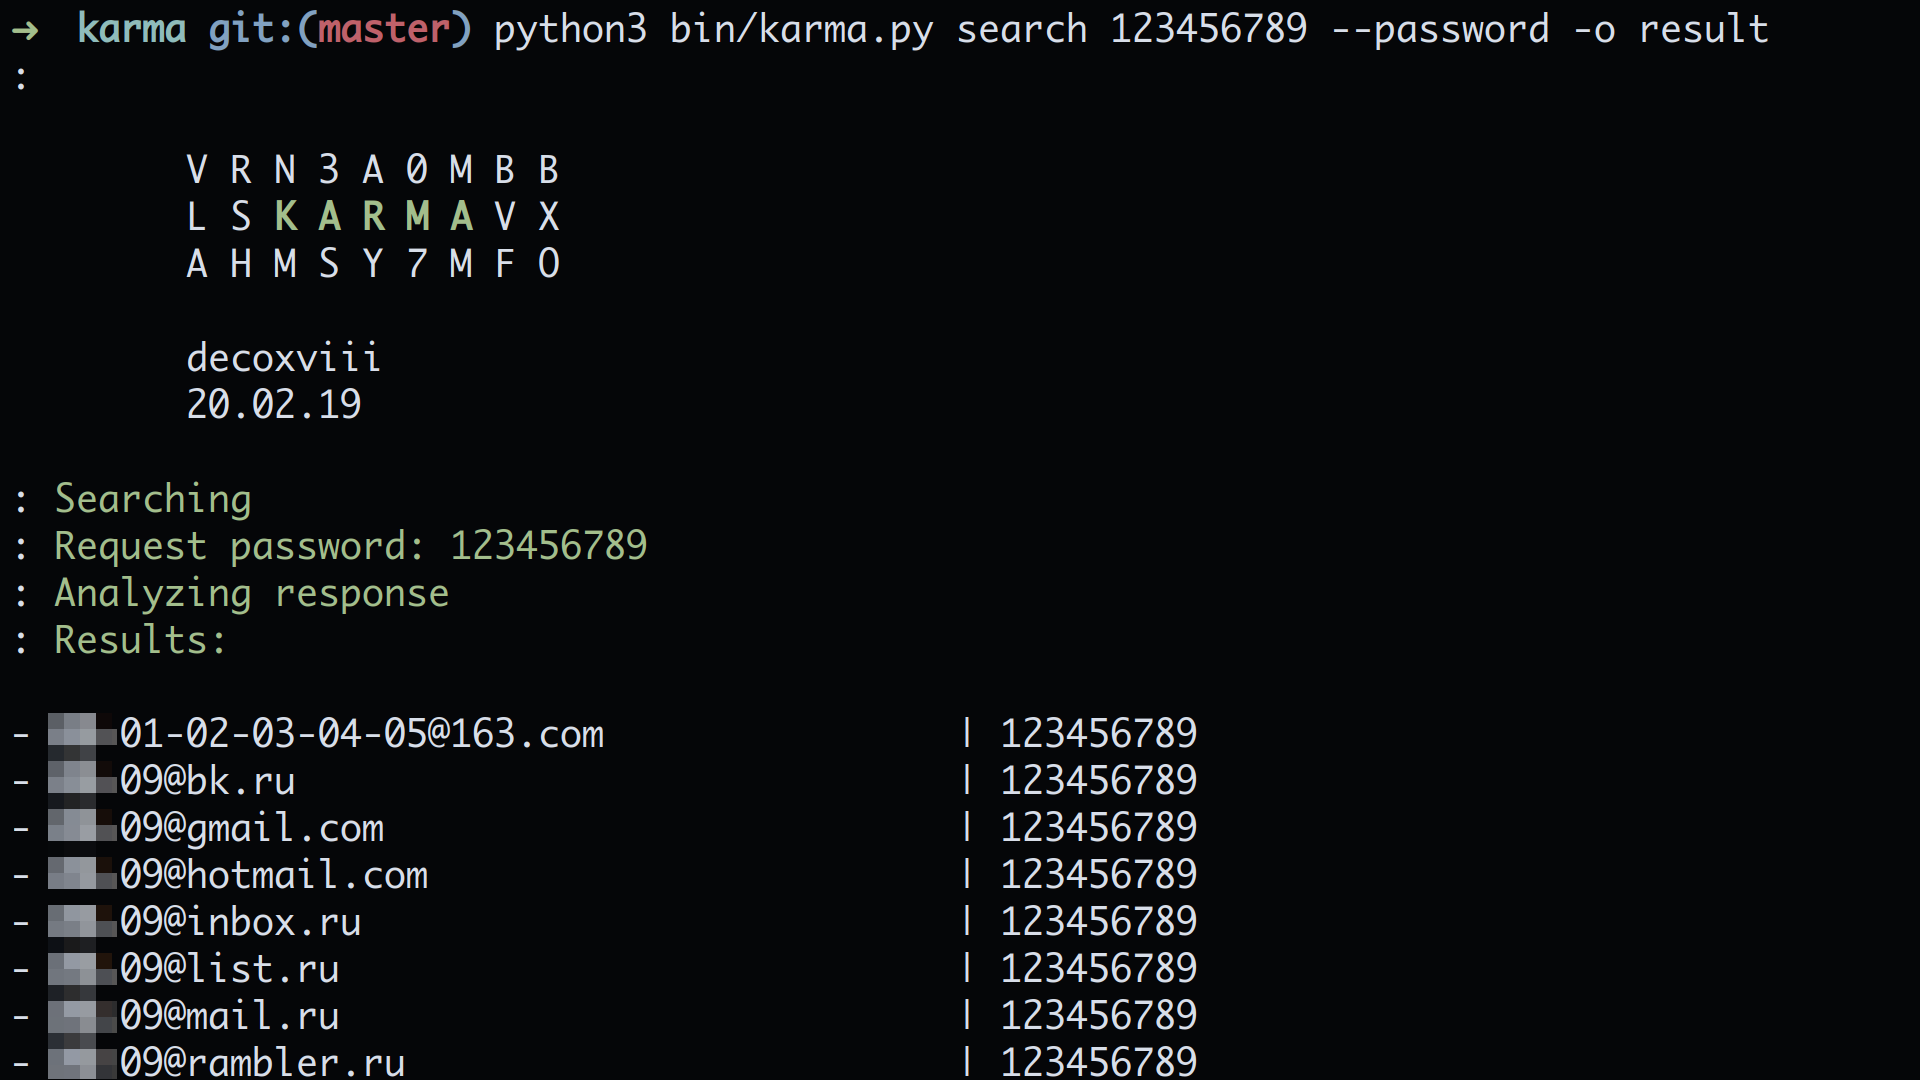
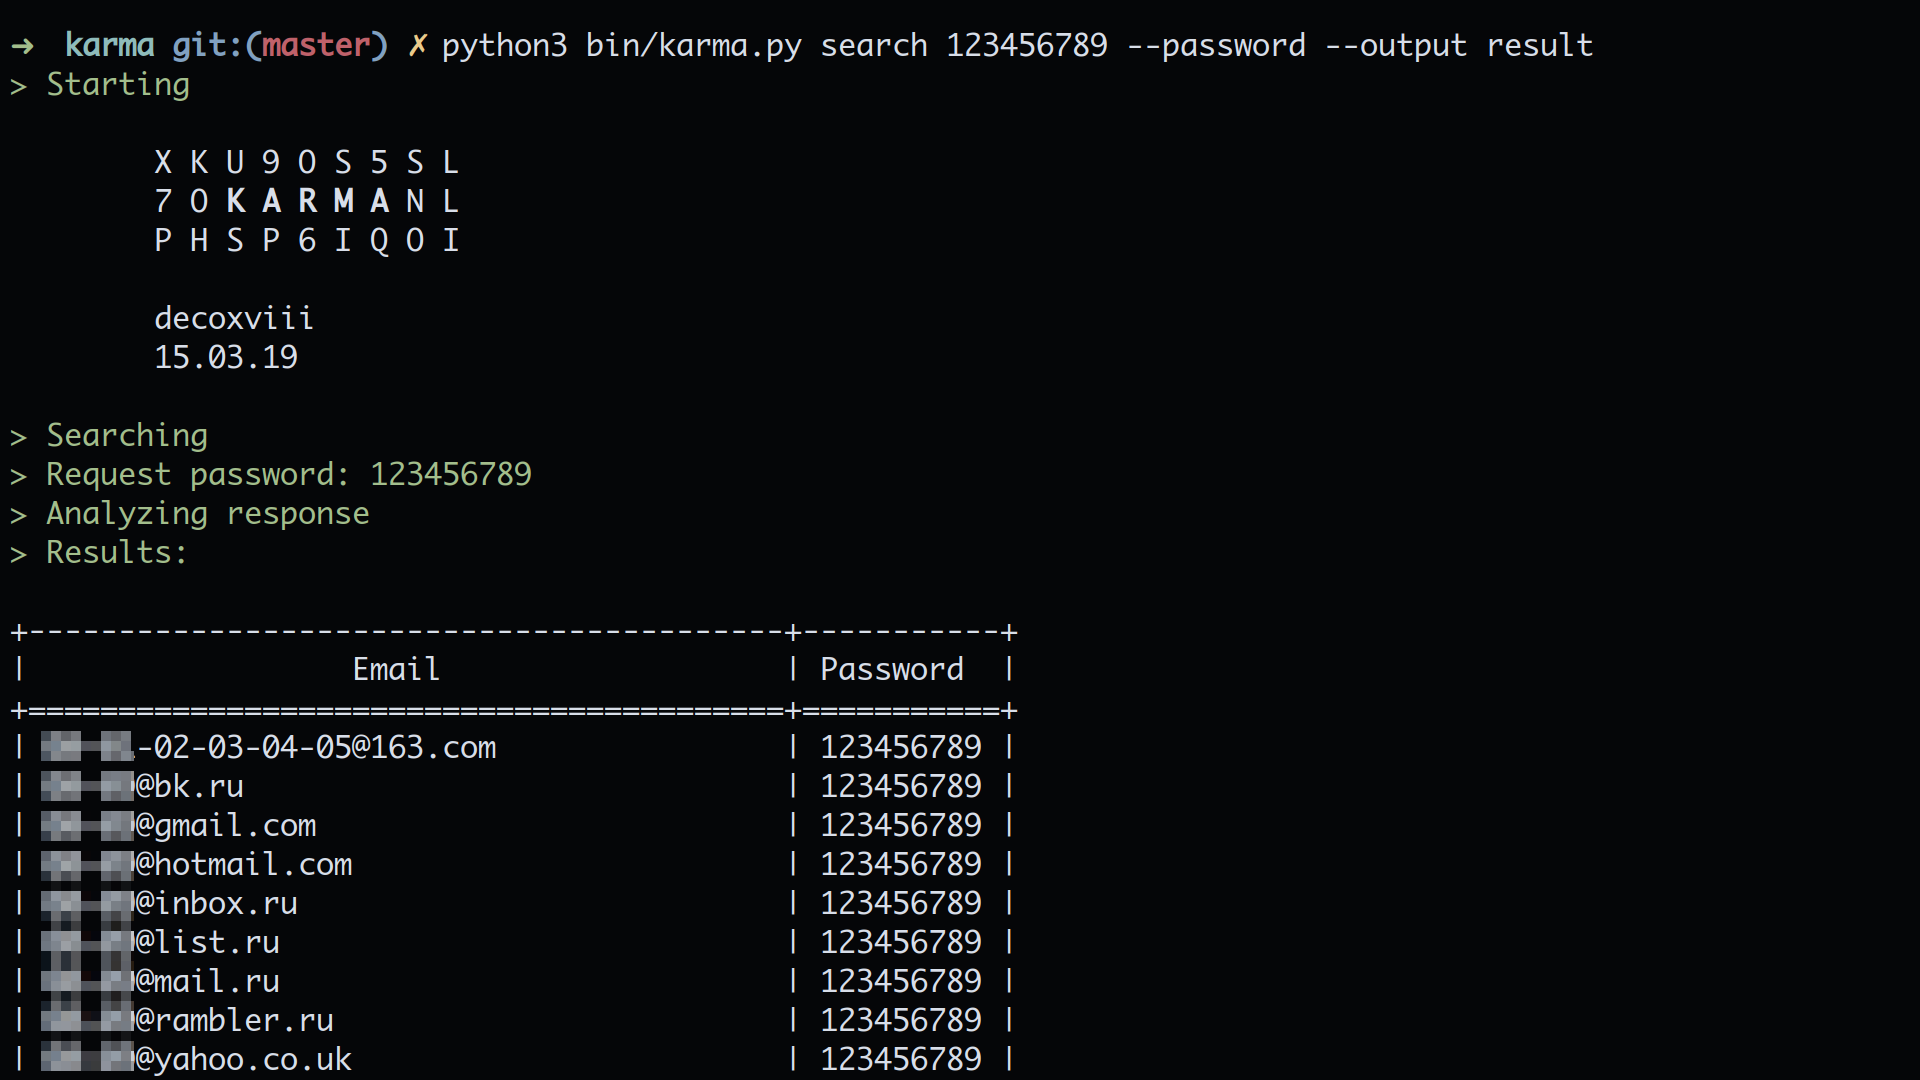
version: 15.03.19

diff --git a/bin/karma.py b/bin/karma.py
@@ -1,7 +1,10 @@
 #!/usr/bin/env python3
 
+# colors
+RESET, GREEN, RED = '\033[0m', '\033[92m', '\033[91m'
+
 project = 'Karma'
-version = '20.02.19'
+version = '15.03.19'
 author  = 'decoxviii'
 
 usage = """Karma
@@ -20,65 +23,79 @@ Options:
 """
 
 from os import path
-
 import json
 import time
 import sys
 
-# Colors
-RESET, GREEN = '\033[0m', '\033[92m'
-
 try:
     sys.path.insert(0, path.abspath(path.join(path.dirname(__file__), '..')))
+    from texttable import Texttable
     from docopt import docopt
     from karma import banner
     from karma import core
-except Exception as e:
-    print("Error:", e )
-    print("Please install the requirements:\n\t$ pip3 install -r requirements.txt")
+except ModuleNotFoundError as error:
+    print("{}> Error:{}".format(RED, error))
+    print(" - Verify the existence of the directory: karma/")
+    print(" - Please install the requirements:\n\t$ sudo -H pip3 install -r requirements.txt")
     sys.exit(1)
 
-def main():
-    start = time.time()
-    args  = docopt(usage, version=version)          # load args
-    pwndb = core.pwndb(args)
-    banner.print_banner(project, version, author)   # print banner
-    
-    print(':{} Searching{}'.format(GREEN, RESET))
-    # get search results
-    result = pwndb.search_info()
+
+def print_result_table(result):
     
     if not result:
-        end = time.time() - start
-        print(':{} Results:{}'.format(GREEN, RESET))
-        print(':{} 0 Results found in {:.2f} segs.{}'.format(
-            GREEN, end, RESET ))
-        sys.exit()
+        print('{}> Not results:{}'.format(RED, RESET))
+        return None
     
-    # print results
-    print(':{} Results:{}\n'.format(GREEN, RESET))
-    length = [result[key]['email'] for key in result.keys()]
-    length = len(max(length, key=len))
-
+    print('{}> Results:{}\n'.format(GREEN, RESET))
+    
+    table = Texttable()                     # create table
+    table.header(['Email', 'Password'])     # add two columns
+    table.set_cols_dtype(['t', 't'])        # data type is text
+    table.set_deco(                         # set table decoration
+        Texttable.BORDER | 
+        Texttable.HEADER |
+        Texttable.VLINES)
+    
     for key in result.keys():
-        print('- {} | {}'.format(
-            result[key]['email'].ljust(length),
-            result[key]['passw']
-        ))
+        email = result[key]['email']        # get email
+        passw = str(result[key]['passw'])   # get password
+        row   = (email, passw)              # create tuple with email and password
+        table.add_row(row)                  # add new row to the table
+
+    print(table.draw())
+
+
+def generate_json_file(result, filename):
     
-    end = time.time() - start
-    print('\n: {}{} Results found in {:.2f} segs.{}'.format(
+    if not filename:
+        filename = time.strftime('%d%m%y-%H%M%S')   # if not filename: create new file name
+    output = json.dumps(result, indent=2)           # get results in json format
+    f = open('%s.json' % filename, 'w')             # create new file
+    f.write(output)                                 # write results
+    f.close()
+
+    print('{}> The file {}.json was created.{}'.format(GREEN, filename, RESET))
+
+
+def main():
+    
+    start = time.time()                             # get program start time
+    args  = docopt(usage, version=version)          # get arguments
+    pwndb = core.pwndb(args)                        # load functions
+    banner.print_banner(project, version, author)   # print sexy banner
+    
+    print('{}> Searching{}'.format(GREEN, RESET))
+
+    result = pwndb.search_info()                    # start search and get results
+    print_result_table(result)                      # print results
+    end = time.time() - start                       # get time within the program
+    
+    print('\n{}> {} Results found in {:.2f} segs.{}'.format(
         GREEN, len(result.keys()), end, RESET ))
 
     if args['--output']:
-        output = json.dumps(result, indent=2)
-        filename = args['FILENAME']
-        filename = filename if filename else '%s' % time.strftime('%d%m%y-%H%M%S')
-        f = open('%s.json' % filename, 'w')
-        f.write(output)
-        f.close()
-        print(':{} The file {}.json was created.{}'.format(GREEN, filename, RESET))
-
+        filename = args['FILENAME']             # get file name 
+        generate_json_file(result, filename)    # generate json file with the results
 
 if __name__ == "__main__":
     main()

diff --git a/karma/core.py b/karma/core.py
@@ -8,6 +8,12 @@ import os
 # Colors
 GREEN, RED, RESET = '\033[92m', '\033[91m', '\033[0m'
 
+try:
+    import requests
+except Exception as e:
+    print('Error:', e)
+    print("Please install the requirements:\n\t$ sudo -H pip3 install -r requirements.txt")
+    sys.exit(1)
 
 class pwndb(object):
 
@@ -40,7 +46,7 @@ class pwndb(object):
         try:
             req = self.session.post(self.domain, data=data)
         except Exception as e:
-            print('{}E:{}{}'.format(RED, e, RESET))
+            print('{}Error: {}{}'.format(RED, e, RESET))
             sys.exit(2)
         
         return req.text
@@ -49,7 +55,7 @@ class pwndb(object):
     def response_parser(self, response):
         """ Parse pwndb response """
 
-        print("\n:{} Analyzing response{}".format(GREEN, RESET))
+        print("\n{}> Analyzing response{}".format(GREEN, RESET))
 
         if not response:
             return ''
@@ -72,14 +78,14 @@ class pwndb(object):
         
         regex = r"(^[a-zA-Z0-9_.+-]+@[a-zA-Z0-9-]+\.[a-zA-Z0-9-.]+$)"
         if re.match(regex, target):
-            print(':{} Request email: {}{}\033[J'.format(GREEN, target, RESET), end='\r')
+            print('{}> Request email: {}{}\033[J'.format(GREEN, target, RESET), end='\r')
 
             self.data['luser']  = target.split('@')[0]
             self.data['domain'] = target.split('@')[1]
 
             return self.get_request(self.data)
         
-        print(':{} Invalid email: {}{}\033[J'.format(RED, target, RESET))
+        print('{}> Invalid email: {}{}\033[J'.format(RED, target, RESET))
         return ""
 
     
@@ -88,14 +94,14 @@ class pwndb(object):
 
         regex = r"(^[a-zA-Z0-9_.+%-]+$)"
         if re.match(regex, target):
-            print(':{} Request local-part: {}{}\033[J'.format(GREEN, target, RESET), end='\r')
+            print('{}> Request local-part: {}{}\033[J'.format(GREEN, target, RESET), end='\r')
 
             self.data['luseropr'] = 1
             self.data['luser'] = target
 
             return self.get_request(self.data)
 
-        print(':{} Invalid local-part: {}{}\033[J'.format(RED, target, RESET))
+        print('{}> Invalid local-part: {}{}\033[J'.format(RED, target, RESET))
         return ""
 
 
@@ -104,21 +110,21 @@ class pwndb(object):
 
         regex = r"(^[a-zA-Z0-9-%]+\.[a-zA-Z0-9-.%]+$)"
         if re.match(regex, target):
-            print(':{} Request domain: {}{}\033[J'.format(GREEN, target, RESET), end='\r')
+            print('{}> Request domain: {}{}\033[J'.format(GREEN, target, RESET), end='\r')
 
             self.data['domainopr'] = 1
             self.data['domain'] = target
 
             return self.get_request(self.data)
 
-        print(':{} Invalid domain: {}{}\033[J'.format(RED, target, RESET))
+        print('{}> Invalid domain: {}{}\033[J'.format(RED, target, RESET))
         return ""
 
 
     def search_password(self, target):
         """ Requests with password """
         
-        print(':{} Request password: {}{}\033[J'.format(GREEN, target, RESET), end='\r')
+        print('{}> Request password: {}{}\033[J'.format(GREEN, target, RESET), end='\r')
             
         self.data['submitform'] = 'pw'
         self.data['password'] = target
@@ -156,24 +162,21 @@ class pwndb(object):
             lines = open(target, 'r').readlines()
             for item in lines:
                 item = item.strip('\n')
-                
                 try:
                     if opt_search:
                         response += self.choose_function(item)
-
                     if opt_target:
                         response += self.email_request(item)
-
                 except KeyboardInterrupt:
-                    print('\n:{} break{}'.format(RED, RESET))
+                    print('\n{}> break{}'.format(RED, RESET))
                     break
-                
+
             return self.response_parser(response)
         
         if opt_search:
             response = self.choose_function(target)
-
         if opt_target and target:
             response = self.email_request(target)
         
         return self.response_parser(response)
+

diff --git a/karma/banner.py b/karma/banner.py
@@ -21,10 +21,10 @@ def print_banner(name='Nameless', version='00.00.00', author='unknown'):
     name = ' '.join(name.upper())   # space between letters
 
     # ? ? N A M E ? ?
-    name = '{} \033[1;92m{} \033[0m{}'.format(char(2), name, char(2))
+    name = '{} \033[1m{} \033[0m{}'.format(char(2), name, char(2))
 
     lines = [char(nlen), name, char(nlen)]
-    print(':\n')
+    print('\033[92m> Starting \033[0m\n')
     [shuffle(line, nlen) for line in lines]
     print("\n\t{}".format(author))
     print("\t{}\n".format(version))

diff --git a/README.md b/README.md
@@ -1,7 +1,7 @@
 ## karma
 **API: `pwndb2am4tzkvold (dot) onion`**
 
-![version](https://img.shields.io/badge/version-20.02.19-lightgrey.svg?style=flat-square)
+![version](https://img.shields.io/badge/version-15.03.19-lightgrey.svg?style=flat-square)
 [![demo](https://img.shields.io/badge/demo-video-lightgrey.svg?style=flat-square)](https://www.youtube.com/watch?v=tL-kYkmudz4)
 
 Find leaked emails with your passwords.
